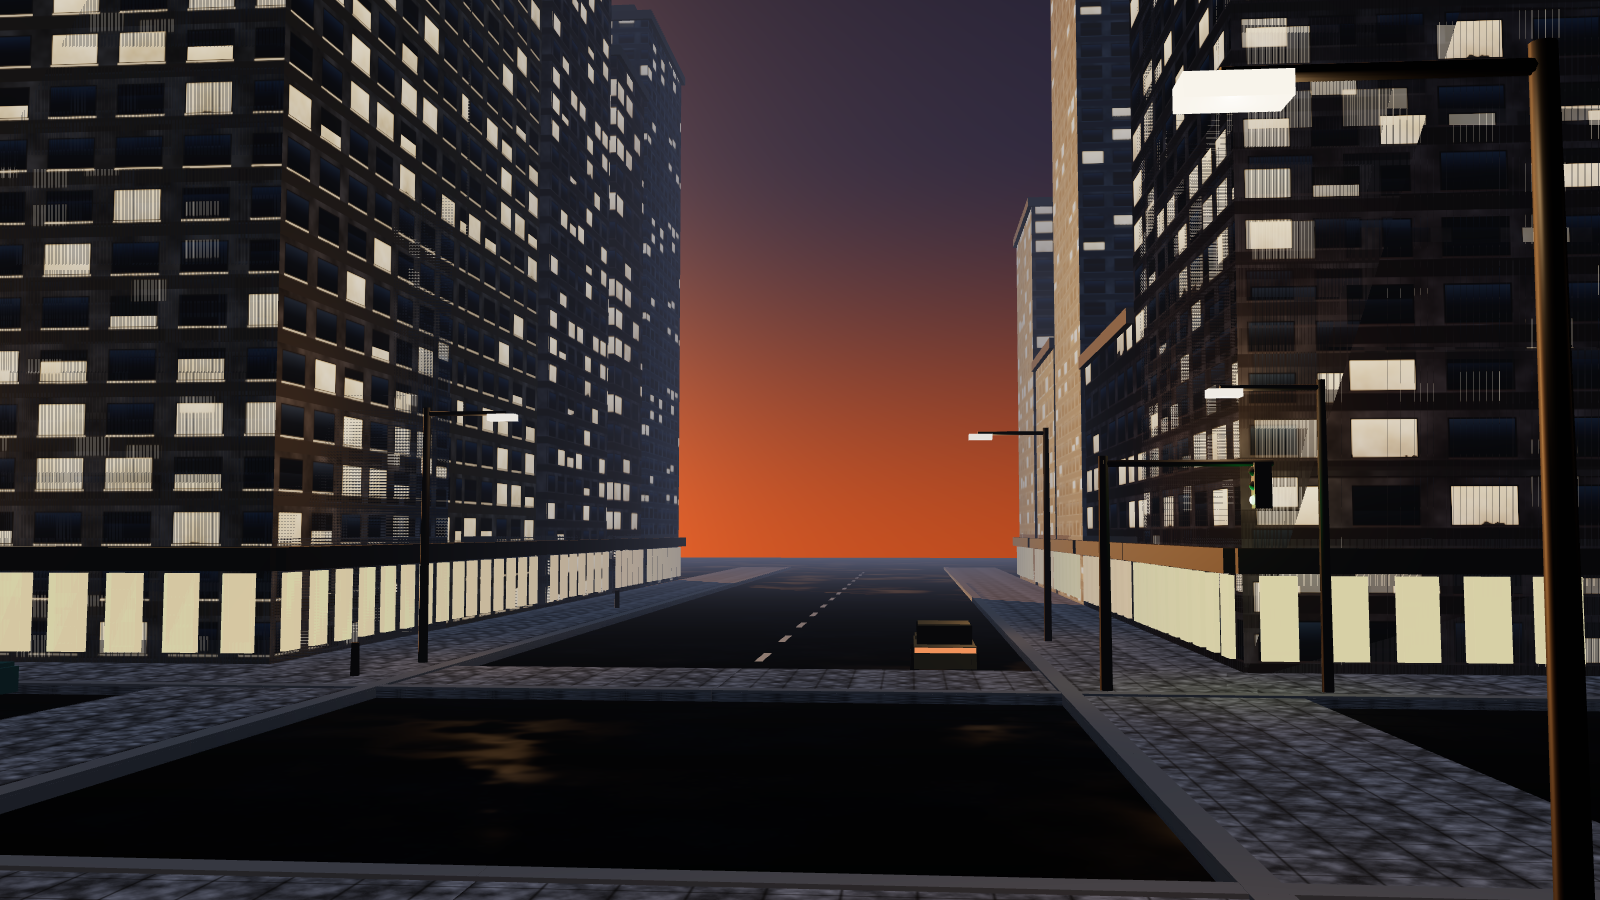
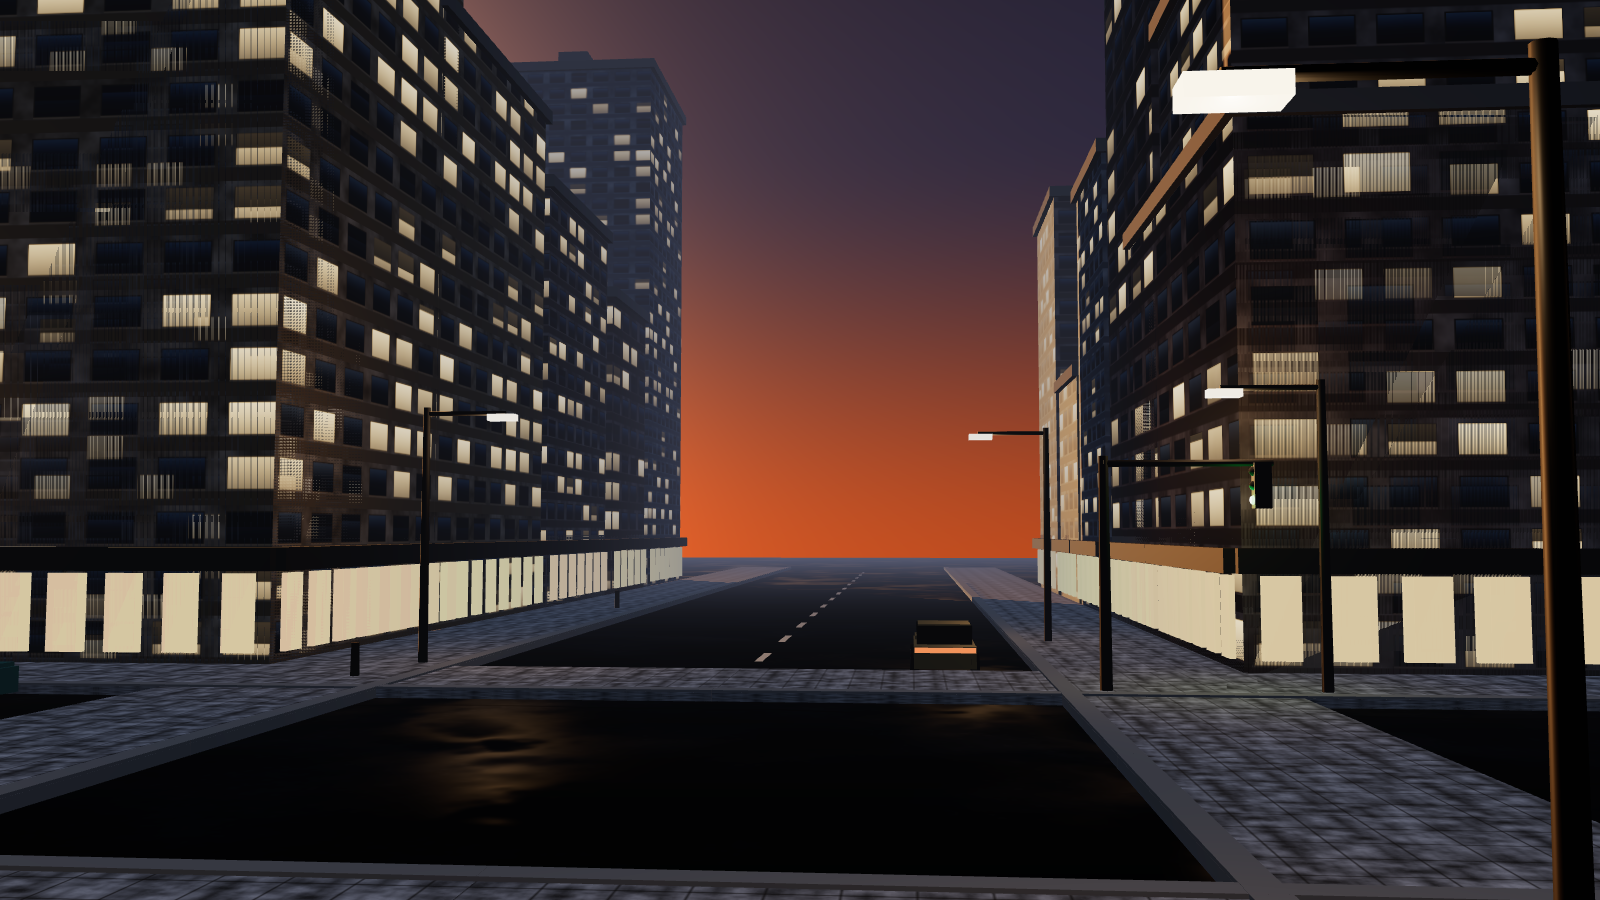
Generate facade albedo and emissive mask in one pass
Deriving the emissive mask by reading back a 1024x1024 canvas with getImageData
and scanning a million pixels in JS cost 2219 ms per facade variant - roughly
44 s of startup across a production facade library. Drawing both canvases in
the same pass costs 143 ms and removes any chance of the mask drifting out of
sync with the albedo. Blinds now also mask the emissive, so a covered window
no longer glows.

Adds the Phase 2 budget estimate and recommended spec changes to FEASIBILITY.md.

Claude-Session: https://claude.ai/code/session_014fLU6T5puWVMbDoGWxtJvy

diff --git a/src/textures.js b/src/textures.js
@@ -130,79 +130,79 @@ export function sidewalk() {
 
 // --- Building facade atlas. One canvas holds a whole tower's window grid:
 //     floors, mullions, spandrel panels, per-window lit/unlit state and blinds.
-export function facade(opts = {}) {
+//
+//     Albedo and emissive mask are produced in ONE pass. Deriving the mask
+//     afterwards by scanning pixels cost 2088 ms per 1024px texture (a 1M-iteration
+//     getImageData loop); drawing lit windows to a second context as we go is
+//     effectively free and cannot drift out of sync with the albedo.
+function buildFacade(opts) {
   const {
-    key = 'f0', cols = 6, rows = 8, lit = 0.35, hue = 32, sat = 8, light = 46,
+    cols = 6, rows = 8, lit = 0.35, hue = 32, sat = 8, light = 46,
     warm = '255,214,150', night = true,
   } = opts;
-  return memo('facade:' + key, () => {
-    const S = 1024, [c, g] = canvas(S);
-    const cw = S / cols, ch = S / rows;
-    g.fillStyle = `hsl(${hue},${sat}%,${light}%)`; g.fillRect(0, 0, S, S);
-    g.globalAlpha = 0.35; g.drawImage(noiseCanvas(S, 64, 1.3), 0, 0, S, S); g.globalAlpha = 1;
+  const S = 1024;
+  const [c, g] = canvas(S);      // albedo
+  const [e, eg] = canvas(S);     // emissive mask
+  const cw = S / cols, ch = S / rows;
 
-    for (let r = 0; r < rows; r++) {
-      // Spandrel band between floors.
-      g.fillStyle = `hsl(${hue},${sat}%,${light - 9}%)`;
-      g.fillRect(0, r * ch + ch * 0.74, S, ch * 0.26);
-      g.fillStyle = `rgba(255,255,255,0.05)`;
-      g.fillRect(0, r * ch + ch * 0.72, S, 2);
+  g.fillStyle = `hsl(${hue},${sat}%,${light}%)`; g.fillRect(0, 0, S, S);
+  g.globalAlpha = 0.35; g.drawImage(noiseCanvas(S, 64, 1.3), 0, 0, S, S); g.globalAlpha = 1;
+  eg.fillStyle = '#000'; eg.fillRect(0, 0, S, S);
 
-      for (let cI = 0; cI < cols; cI++) {
-        const x = cI * cw + cw * 0.16, y = r * ch + ch * 0.12;
-        const w = cw * 0.68, h = ch * 0.58;
-        const isLit = night && Math.random() < lit;
-        if (isLit) {
-          const a = 0.55 + Math.random() * 0.45;
-          const gr = g.createLinearGradient(x, y, x, y + h);
-          gr.addColorStop(0, `rgba(${warm},${a})`);
-          gr.addColorStop(1, `rgba(${warm},${a * 0.55})`);
-          g.fillStyle = gr;
-        } else {
-          const gr = g.createLinearGradient(x, y, x, y + h);
-          gr.addColorStop(0, 'rgba(96,122,145,0.92)');   // sky reflection at top
-          gr.addColorStop(0.55, 'rgba(38,50,62,0.95)');
-          gr.addColorStop(1, 'rgba(22,28,36,0.95)');
-          g.fillStyle = gr;
-        }
+  for (let r = 0; r < rows; r++) {
+    g.fillStyle = `hsl(${hue},${sat}%,${light - 9}%)`;
+    g.fillRect(0, r * ch + ch * 0.74, S, ch * 0.26);
+    g.fillStyle = 'rgba(255,255,255,0.05)';
+    g.fillRect(0, r * ch + ch * 0.72, S, 2);
+
+    for (let cI = 0; cI < cols; cI++) {
+      const x = cI * cw + cw * 0.16, y = r * ch + ch * 0.12;
+      const w = cw * 0.68, h = ch * 0.58;
+      const isLit = night && Math.random() < lit;
+
+      if (isLit) {
+        const a = 0.55 + Math.random() * 0.45;
+        const gr = g.createLinearGradient(x, y, x, y + h);
+        gr.addColorStop(0, `rgba(${warm},${a})`);
+        gr.addColorStop(1, `rgba(${warm},${a * 0.55})`);
+        g.fillStyle = gr;
         g.fillRect(x, y, w, h);
-        // Blinds / occupancy variation.
-        if (Math.random() < 0.3) {
-          g.fillStyle = 'rgba(15,18,22,0.75)';
-          g.fillRect(x, y, w, h * (0.2 + Math.random() * 0.5));
-        }
-        // Mullion + sill.
-        g.strokeStyle = `hsl(${hue},${sat}%,${light - 20}%)`; g.lineWidth = 3;
-        g.strokeRect(x, y, w, h);
-        g.fillStyle = `hsl(${hue},${sat}%,${light + 7}%)`;
-        g.fillRect(x - 2, y + h, w + 4, 4);
+        const egr = eg.createLinearGradient(x, y, x, y + h);
+        egr.addColorStop(0, `rgba(${warm},${a})`);
+        egr.addColorStop(1, `rgba(${warm},${a * 0.55})`);
+        eg.fillStyle = egr;
+        eg.fillRect(x, y, w, h);
+      } else {
+        const gr = g.createLinearGradient(x, y, x, y + h);
+        gr.addColorStop(0, 'rgba(96,122,145,0.92)');   // sky reflection at the top
+        gr.addColorStop(0.55, 'rgba(38,50,62,0.95)');
+        gr.addColorStop(1, 'rgba(22,28,36,0.95)');
+        g.fillStyle = gr;
+        g.fillRect(x, y, w, h);
       }
+
+      // Blinds / occupancy variation, masked from the emissive too so a covered
+      // window does not glow.
+      if (Math.random() < 0.3) {
+        const bh = h * (0.2 + Math.random() * 0.5);
+        g.fillStyle = 'rgba(15,18,22,0.75)';
+        g.fillRect(x, y, w, bh);
+        if (isLit) { eg.fillStyle = 'rgba(0,0,0,0.75)'; eg.fillRect(x, y, w, bh); }
+      }
+
+      g.strokeStyle = `hsl(${hue},${sat}%,${light - 20}%)`; g.lineWidth = 3;
+      g.strokeRect(x, y, w, h);
+      g.fillStyle = `hsl(${hue},${sat}%,${light + 7}%)`;
+      g.fillRect(x - 2, y + h, w + 4, 4);
     }
-    return c;
-  });
+  }
+  return { albedo: c, emissive: e };
 }
 
-// --- Emissive mask matching a facade: only the lit windows glow.
-export function facadeEmissive(opts = {}) {
-  const { key = 'f0', cols = 6, rows = 8 } = opts;
-  return memo('facadeE:' + key, () => {
-    const src = facade(opts);
-    const S = 1024, [c, g] = canvas(S);
-    g.fillStyle = '#000'; g.fillRect(0, 0, S, S);
-    // Re-read the facade and keep only warm pixels: cheap, and guarantees the
-    // emissive mask can never drift out of sync with the albedo.
-    const [tmp, tg] = canvas(S);
-    tg.drawImage(src, 0, 0);
-    const d = tg.getImageData(0, 0, S, S);
-    const o = g.getImageData(0, 0, S, S);
-    for (let i = 0; i < d.data.length; i += 4) {
-      const r = d.data[i], gg = d.data[i + 1], b = d.data[i + 2];
-      if (r > 150 && r > b + 40) { o.data[i] = r; o.data[i + 1] = gg; o.data[i + 2] = b; }
-      o.data[i + 3] = 255;
-    }
-    g.putImageData(o, 0, 0);
-    return c;
-  });
+function facadePair(opts = {}) {
+  return memo('facadePair:' + (opts.key ?? 'f0'), () => buildFacade(opts));
 }
+export function facade(opts = {}) { return facadePair(opts).albedo; }
+export function facadeEmissive(opts = {}) { return facadePair(opts).emissive; }
 
 export { tex, noiseCanvas };

diff --git a/FEASIBILITY.md b/FEASIBILITY.md
@@ -173,8 +173,18 @@ shadow-casting sun, and per-lamp point lights.
 
 ![Procedural street corner at dusk](docs/shots/visual-street-corner.png)
 
-**Cost:** 545 draw calls · 8,514 triangles · 14 textures · 631 geometries.
-The draw-call figure is the headline number, and it is Risk 1.
+**Cost:** 568 draw calls · 8,790 triangles · 14 textures · 633 geometries.
+The draw-call figure is the headline number, and it is Risk 1 — 568 calls for *one
+corner*, at a trivial 8.8 k triangles.
+
+**A second finding, found by profiling and then fixed.** Generating one 1024 px facade
+plus its emissive mask cost **2,219 ms**: the mask was derived by reading back a million
+pixels with `getImageData` and scanning them in JavaScript. At 20 facade variants that
+is ~44 s of startup before anything renders. Rewriting it to draw albedo and emissive in
+a single pass brought it to **143 ms** — a 15× reduction, and the emissive mask can no
+longer drift out of sync with the albedo. This is worth recording as a pattern: with
+100% procedural assets, **texture generation is a startup-time budget that has to be
+profiled like any other**, and the naive readback approach is a trap.
 
 ### Blind critic verdict
 
@@ -184,4 +194,101 @@ The draw-call figure is the headline number, and it is Risk 1.
 
 ## 5. Budget estimate and recommended spec changes
 
-<!--BUDGET-->
+### What the probe actually cost
+
+| Activity | Time |
+|---|---|
+| Repo setup, vendoring Three.js, static-serve harness | ~5 min |
+| Walking skeleton — input, controller, vehicle, camera, ground, glue | ~15 min |
+| Playwright probe harness + fixing module-loading | ~6 min |
+| Deterministic physics rig, **finding and fixing 3 bugs**, tuning | ~12 min |
+| Procedural texture library + street-corner scene | ~13 min |
+| Two visual iterations (layout, shopfronts, framing, materials) | ~8 min |
+| Texture-generation profiling + single-pass refactor | ~6 min |
+| **Total** | **~65 min** |
+
+The most informative number is the split: **writing** the vehicle took ~10 minutes,
+**making it correct** took ~12 more, and it is still only a car on an infinite flat
+plane. That ratio is the basis for everything below.
+
+### Phase 2 estimate
+
+Units are *focused engineering hours* — the probe's own unit. A small human team
+(3 sequential owners + 3–4 parallel builders) maps this to roughly **7–10 calendar weeks**.
+
+| Piece | Mode | Hours |
+|---|---|---:|
+| Engine shell, fixed-step scheduler, budget instrumentation | SEQ | 6 |
+| **World streaming, city layout, road graph, LOD** | SEQ | 32 |
+| Vehicle physics → shipped (collision, damage, gearbox, 3–4 vehicle classes) | SEQ | 20 |
+| Player controller + animation state machine | SEQ | 18 |
+| Skinned character meshes + procedural animation clips | PAR | 14 |
+| Camera polish (geometry collision, aim mode, cinematic transitions) | SEQ | 6 |
+| Building kit-of-parts + facade recipe library | PAR | 16 |
+| Material / texture library at production breadth | PAR | 10 |
+| Traffic + pedestrian AI | SEQ (after road graph) | 24 |
+| Wanted / police response | PAR | 14 |
+| Mission scripting + the one playable mission | PAR | 12 |
+| Day/night, weather, atmosphere | PAR | 12 |
+| Procedural audio (engine, tyres, sirens, ambience, music) | PAR | 14 |
+| HUD, minimap, menus | PAR | 8 |
+| Post-processing stack | SEQ | 8 |
+| **Performance work — instancing, atlasing, culling** | SEQ | 20 |
+| Integration, tuning, bug-fix, art-direction pass | all | 30 |
+| **Subtotal** | | **264** |
+| Uncertainty allowance (×1.5, driven by Risks 1 and 5) | | **~400** |
+
+**Estimate: 260 h if things go well, ~400 h realistically.** Confidence is moderate
+for the simulation half (I have measurements) and low for streaming and traffic
+(I have none — nothing in this probe touched either).
+
+### Changes I recommend to the project spec
+
+**1. Retarget the visual bar from "GTA VI trailer" to "GTA V on PC." — recommended cut.**
+This is the one spec change I would push hardest for. The trailer's look rests on
+offline-baked global illumination, virtualised geometry, volumetric atmospherics and a
+deferred renderer with a full post stack — none of which are available at playable frame
+rates in WebGL2 in a browser tab. GTA V-on-PC is a defensible, reachable target and is
+still far above what browser open-world games typically look like. Keeping the GTA VI
+wording in the spec guarantees the project is judged as a failure at the end no matter
+how good it gets.
+
+**2. Shrink the district footprint; spend the savings on density. — recommended change.**
+"One dense, fully explorable district" is the right instinct, but *dense* and *large*
+trade directly against Risk 1. A compact district with a genuinely dense hero corridor
+reads far better in motion than a large sparse grid, and it is what the mission and the
+chase actually use.
+
+**3. Keep procedural audio. — no change.**
+This is the cheapest procedural win in the project. WebAudio synthesis for engine notes,
+tyre squeal, sirens and ambience is well-trodden and needs no art pipeline.
+
+**4. Reduce weather to rain + fog. — recommended cut.**
+Wet-surface materials are already carrying a large share of the visual quality in the
+sample above, at almost no cost. Dynamic storms, snow and a full weather state machine
+are a lot of work for a vertical slice that is set over a single evening.
+
+**5. Add two CI gates that the spec does not currently ask for. — recommended addition.**
+Given Risks 1 and 3, these are not optional: a **draw-call/triangle budget gate** that
+fails the build when a representative camera exceeds budget, and **golden-trace physics
+tests** that assert vehicle positions after a fixed input script. Both harnesses already
+exist in `tools/`.
+
+**6. Commit the minified Three.js build. — minor.**
+The vendored unminified build is 2.0 MB of the 2.1 MB payload. Minified is ~0.7 MB.
+The "no build step" constraint is about *our* code; the vendored library is just a file.
+
+**7. Decide how procedurally generated textures are cached. — open question for you.**
+Runtime generation currently costs ~143 ms per facade variant (down from 2,219 ms after
+the single-pass refactor). Twenty variants is ~3 s of first-load work. Options: accept it
+behind a loading screen; cache generated textures to IndexedDB after first run; or bake
+at author time into committed files. The third is fastest but arguably violates
+"generated procedurally in code from scratch" — I did not want to make that call for you.
+
+### Anything I would not change
+
+The **static / no-server / no-runtime-build** constraint cost essentially nothing. The
+whole probe is plain ES modules served from disk, and it would deploy to GitHub Pages
+as-is. The **all-original-branding** constraint likewise costs nothing, since every
+asset is generated anyway.
+
